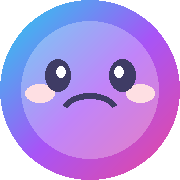
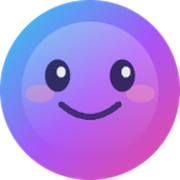
マスコット画像をそのまま透過アイコンに差し替える
提供されたShoppieの顔をソースにし、icon.pngとapple-icon.pngを生成する。

diff --git a/nextjs/frontend/scripts/generate-app-icons.py b/nextjs/frontend/scripts/generate-app-icons.py
@@ -1,114 +1,50 @@
 #!/usr/bin/env python3
-"""Shoppie アプリアイコン（透過 PNG）を生成する。"""
+"""Shoppie マスコット画像からアプリアイコン（透過 PNG）を生成する。"""
 
 from __future__ import annotations
 
-import math
 from pathlib import Path
 
-from PIL import Image, ImageDraw
+from PIL import Image
 
 ROOT = Path(__file__).resolve().parents[1]
+SOURCE = ROOT / "assets" / "shoppie-icon-source.png"
+ICON = ROOT / "app" / "icon.png"
 APPLE_ICON = ROOT / "app" / "apple-icon.png"
 
-INK = (30, 27, 75, 217)
-BLUSH = (253, 164, 175, 89)
-WHITE = (255, 255, 255, 230)
-SIZE = 180
+
+def _remove_near_black_background(img: Image.Image) -> Image.Image:
+    """エクスポート時に乗った黒背景を透過にする。"""
+    rgba = img.convert("RGBA")
+    pixels = rgba.load()
+    width, height = rgba.size
+
+    for y in range(height):
+        for x in range(width):
+            r, g, b, a = pixels[x, y]
+            if a == 0:
+                continue
+            if r < 24 and g < 24 and b < 24:
+                pixels[x, y] = (0, 0, 0, 0)
+
+    return rgba
 
 
-def _lerp(a: float, b: float, t: float) -> float:
-    return a + (b - a) * t
+def _save_icon(size: int, output: Path) -> None:
+    with Image.open(SOURCE) as source:
+        icon = _remove_near_black_background(source)
+        icon = icon.resize((size, size), Image.Resampling.LANCZOS)
+        icon.save(output, format="PNG")
+    print(f"Wrote {output} ({size}x{size})")
 
 
-def _gradient_color(x: float, y: float, size: int) -> tuple[int, int, int]:
-    t = (x / size + y / size) / 2
-    cyan = (34, 211, 238)
-    purple = (168, 85, 247)
-    pink = (236, 72, 153)
-    if t < 0.52:
-        ratio = t / 0.52
-        return (
-            int(_lerp(cyan[0], purple[0], ratio)),
-            int(_lerp(cyan[1], purple[1], ratio)),
-            int(_lerp(cyan[2], purple[2], ratio)),
-        )
-    ratio = (t - 0.52) / 0.48
-    return (
-        int(_lerp(purple[0], pink[0], ratio)),
-        int(_lerp(purple[1], pink[1], ratio)),
-        int(_lerp(purple[2], pink[2], ratio)),
-    )
+def main() -> None:
+    if not SOURCE.exists():
+        raise FileNotFoundError(f"Source image not found: {SOURCE}")
 
-
-def _scale(value: float) -> float:
-    return value * SIZE / 100
-
-
-def generate_apple_icon() -> None:
-    img = Image.new("RGBA", (SIZE, SIZE), (0, 0, 0, 0))
-    pixels = img.load()
-    radius = SIZE / 2
-
-    for y in range(SIZE):
-        for x in range(SIZE):
-            dx = x + 0.5 - radius
-            dy = y + 0.5 - radius
-            if dx * dx + dy * dy <= radius * radius:
-                r, g, b = _gradient_color(x, y, SIZE)
-                pixels[x, y] = (r, g, b, 255)
-
-    draw = ImageDraw.Draw(img)
-
-    shine_box = (
-        _scale(12),
-        _scale(12),
-        SIZE - _scale(12),
-        SIZE - _scale(12),
-    )
-    shine = Image.new("RGBA", (SIZE, SIZE), (0, 0, 0, 0))
-    shine_draw = ImageDraw.Draw(shine)
-    shine_draw.ellipse(shine_box, fill=(255, 255, 255, 72))
-    mask = Image.new("L", (SIZE, SIZE), 0)
-    ImageDraw.Draw(mask).ellipse((0, 0, SIZE - 1, SIZE - 1), fill=255)
-    img = Image.alpha_composite(img, shine)
-
-    draw = ImageDraw.Draw(img)
-    draw.ellipse(
-        (_scale(14), _scale(47), _scale(30), _scale(57)),
-        fill=BLUSH,
-    )
-    draw.ellipse(
-        (_scale(70), _scale(47), _scale(86), _scale(57)),
-        fill=BLUSH,
-    )
-    draw.ellipse(
-        (_scale(25), _scale(33), _scale(39), _scale(51)),
-        fill=INK,
-    )
-    draw.ellipse(
-        (_scale(61), _scale(33), _scale(75), _scale(51)),
-        fill=INK,
-    )
-    draw.ellipse(
-        (_scale(31.5), _scale(37), _scale(36.5), _scale(43)),
-        fill=WHITE,
-    )
-    draw.ellipse(
-        (_scale(63.5), _scale(37), _scale(68.5), _scale(43)),
-        fill=WHITE,
-    )
-    draw.arc(
-        (_scale(34), _scale(52), _scale(66), _scale(72)),
-        start=200,
-        end=-20,
-        fill=INK,
-        width=max(2, int(_scale(3.5))),
-    )
-
-    img.save(APPLE_ICON, format="PNG")
-    print(f"Wrote {APPLE_ICON}")
+    _save_icon(32, ICON)
+    _save_icon(180, APPLE_ICON)
 
 
 if __name__ == "__main__":
-    generate_apple_icon()
+    main()